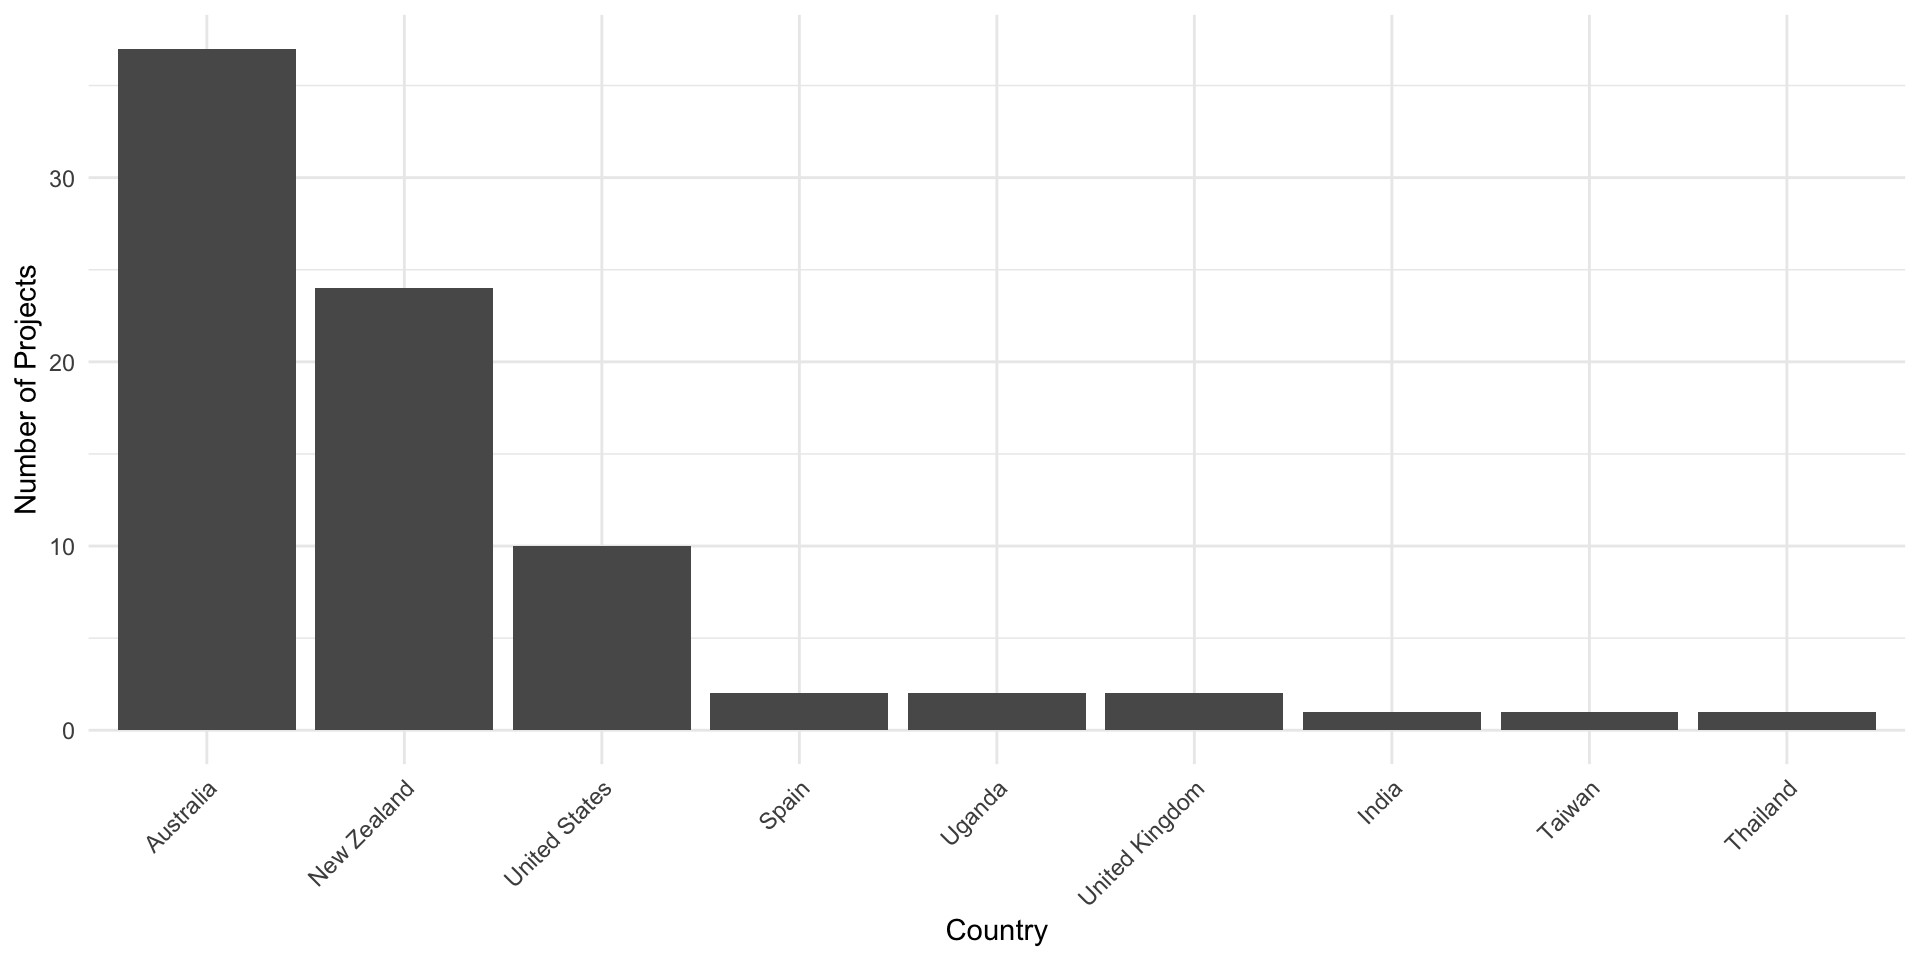
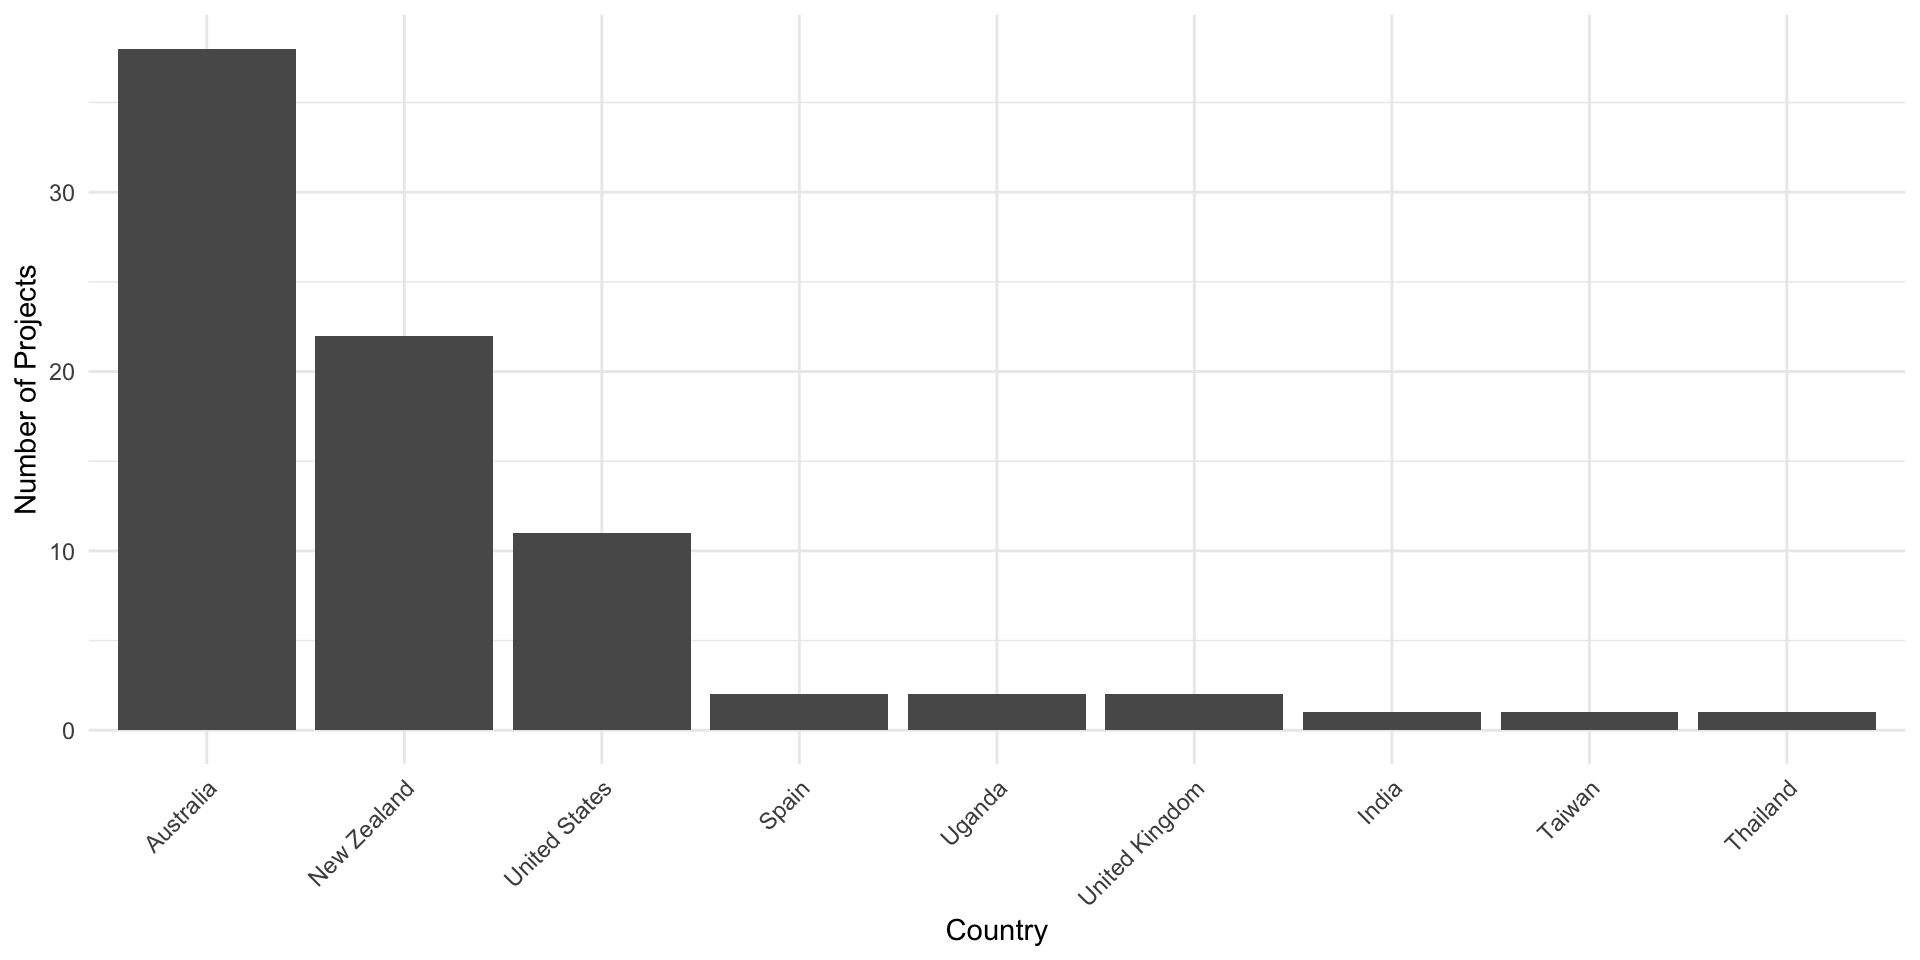
hotfix: Changing presentation to be neater

diff --git a/2024/tech-for-social-justice-conf-data-analytics-and-visualisation/slides/data-analytics-vis.html b/2024/tech-for-social-justice-conf-data-analytics-and-visualisation/slides/data-analytics-vis.html
@@ -980,15 +980,15 @@ $ gdi_branch   &lt;chr&gt; "Melbourne"</code></pre>
 <pre><code># A tibble: 9 × 2
   hq_country         n
   &lt;chr&gt;          &lt;int&gt;
-1 Australia         37
+1 Australia         38
 2 India              1
-3 New Zealand       24
+3 New Zealand       22
 4 Spain              2
 5 Taiwan             1
 6 Thailand           1
 7 Uganda             2
 8 United Kingdom     2
-9 United States     10</code></pre>
+9 United States     11</code></pre>
 </div>
 </div>
 </section>
